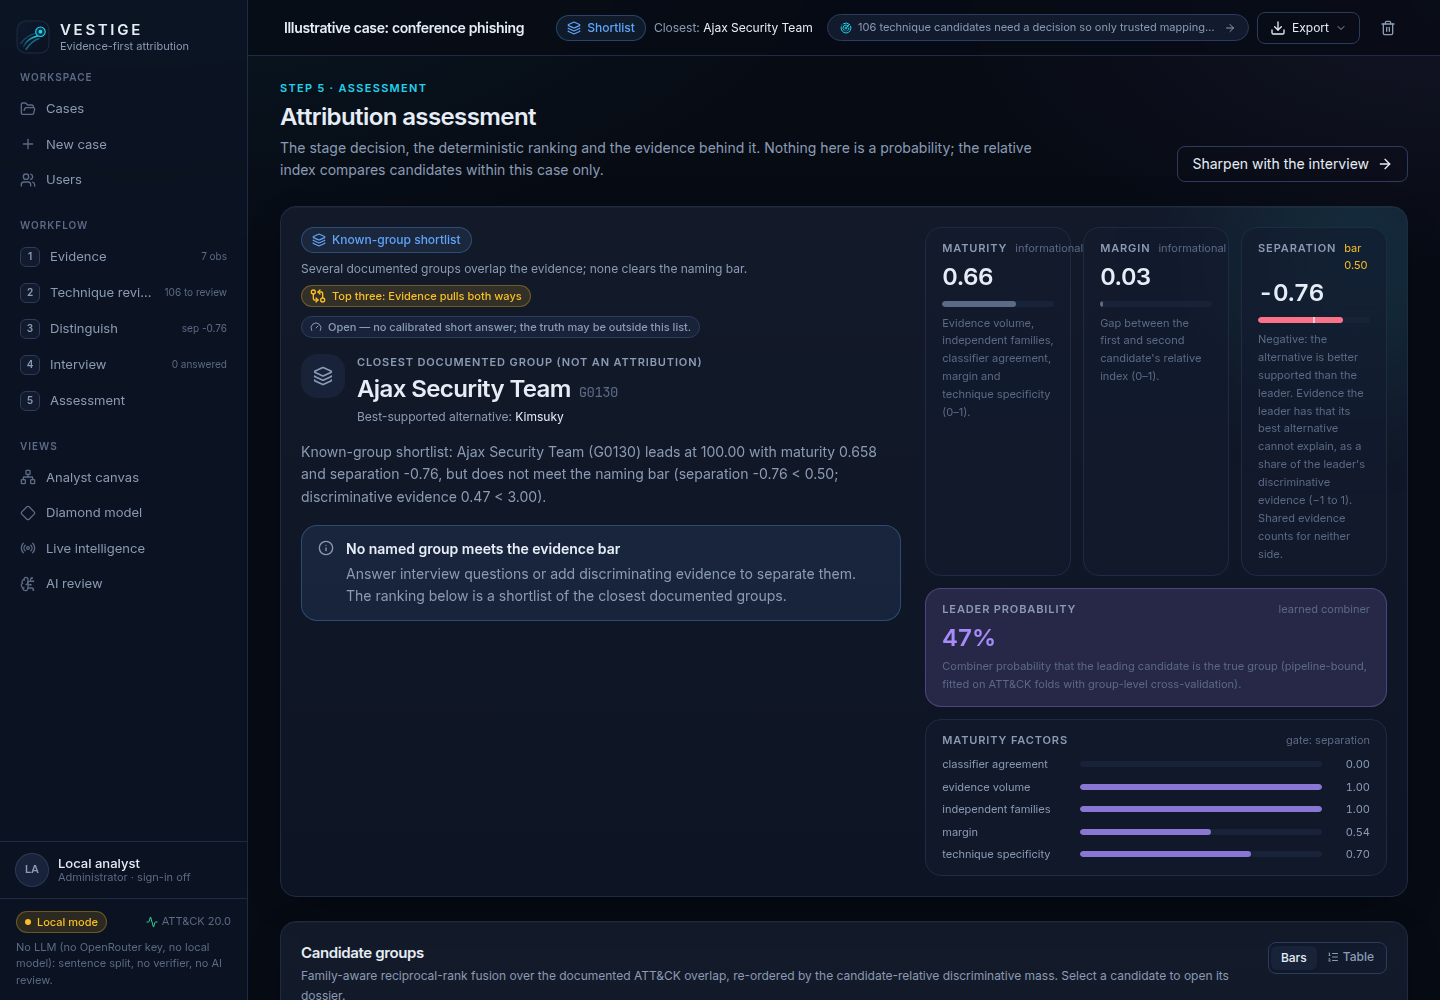
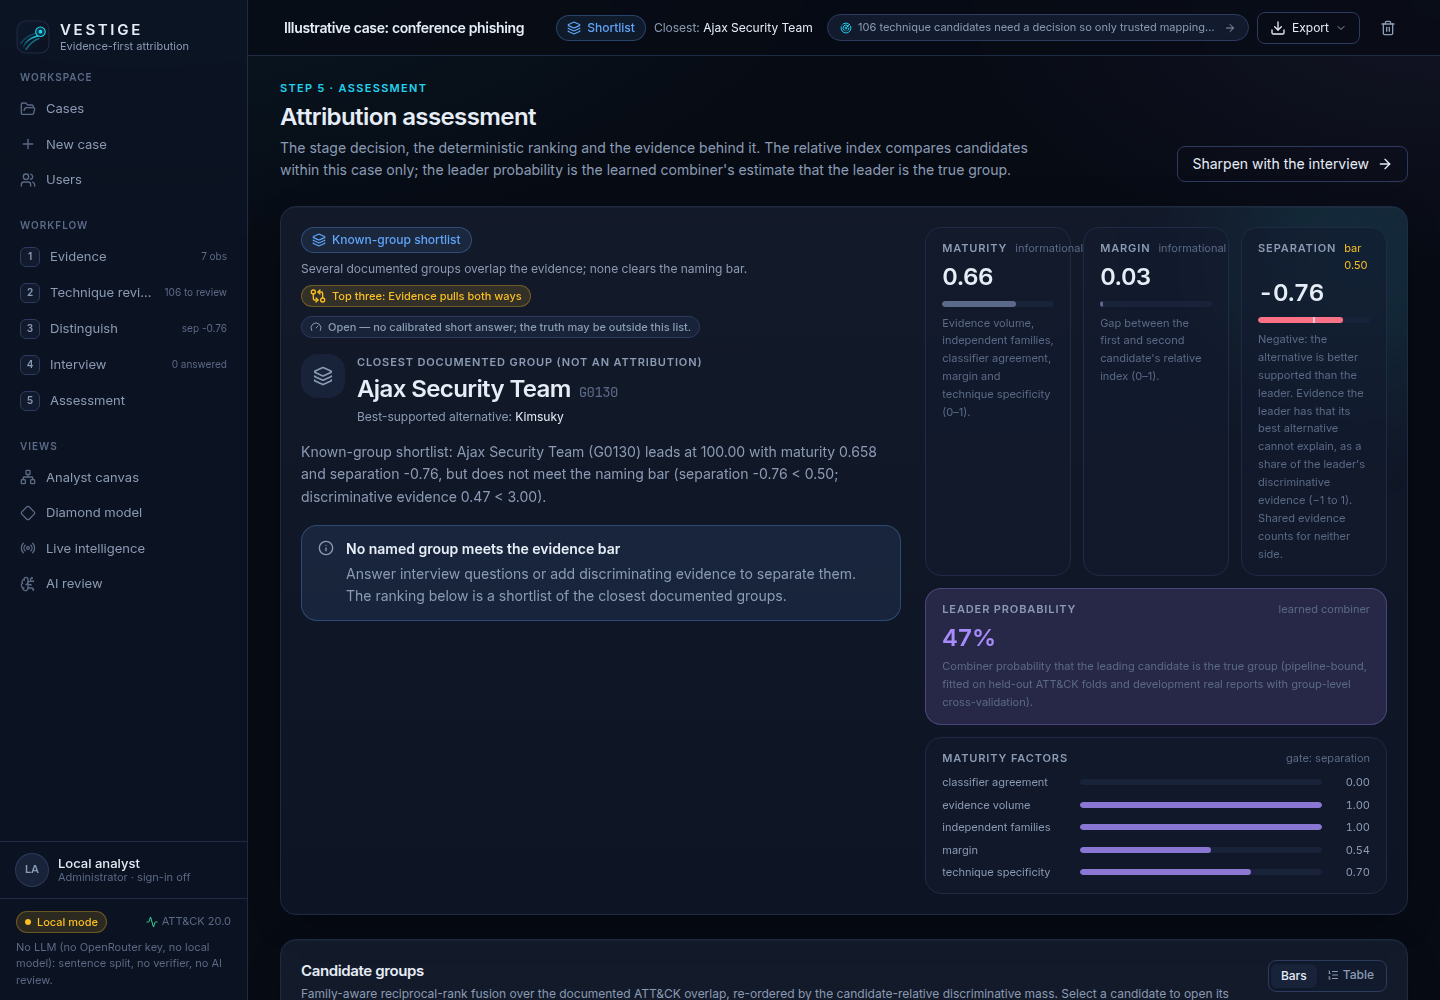
Web: honest probability wording, current combiner description, technique table fits
- Assessment lead no longer says "Nothing here is a probability" next to the leader probability;
  it says the relative index compares candidates within the case and the leader probability is
  the combiner's estimate.
- The combiner notes (assessment card, Top three badge) say it is fitted on held-out ATT&CK folds
  and development real reports, as the default combiner is since 2026-10-27.
- Technique review: the replacement picker and rationale move under the decision buttons and the
  evidence column wraps between items, so the table fits at 1440 px without sideways scrolling.

README screenshots refreshed.

diff --git a/web/src/pages/Techniques.tsx b/web/src/pages/Techniques.tsx
@@ -1,5 +1,5 @@
 import { ArrowRight, Check, HelpCircle, Search, X } from 'lucide-react'
-import { useMemo, useState } from 'react'
+import { Fragment, useMemo, useState } from 'react'
 import { useNavigate } from 'react-router-dom'
 
 import { api } from '../api/client'
@@ -202,7 +202,6 @@ function TechniquesView({ caseId, data }: { caseId: string; data: CasePayload })
                     <th className="min-w-[150px]">Status</th>
                     <th>Evidence</th>
                     <th>Decision</th>
-                    <th className="w-[280px]">Replacement / rationale</th>
                   </tr>
                 </thead>
                 <tbody>
@@ -265,8 +264,15 @@ function TechniquesView({ caseId, data }: { caseId: string; data: CasePayload })
                             </div>
                           ) : null}
                         </td>
-                        <td className="whitespace-nowrap text-xs text-muted">
-                          {evidenceSummary(c).join(' · ') || '–'}
+                        <td className="min-w-[180px] max-w-[300px] text-xs text-muted">
+                          {evidenceSummary(c).length
+                            ? evidenceSummary(c).map((item, i) => (
+                                <Fragment key={i}>
+                                  {i ? ' · ' : ''}
+                                  <span className="whitespace-nowrap">{item}</span>
+                                </Fragment>
+                              ))
+                            : '–'}
                         </td>
                         <td>
                           <Segmented<Action>
@@ -279,8 +285,6 @@ function TechniquesView({ caseId, data }: { caseId: string; data: CasePayload })
                               { value: 'replace', label: 'Replace' },
                             ]}
                           />
-                        </td>
-                        <td>
                           {draft.action === 'replace' ? (
                             <TechniquePicker
                               value={draft.replacement}
@@ -292,7 +296,7 @@ function TechniquesView({ caseId, data }: { caseId: string; data: CasePayload })
                               value={draft.rationale}
                               onChange={(e) => setDraft(c.key, { rationale: e.target.value })}
                               placeholder="Rationale (optional)"
-                              className="mt-1 h-8 text-xs"
+                              className="mt-1 h-8 max-w-[300px] text-xs"
                             />
                           ) : null}
                         </td>

diff --git a/web/src/pages/Assessment.tsx b/web/src/pages/Assessment.tsx
@@ -36,7 +36,7 @@ function AssessmentView({ caseId, data }: { caseId: string; data: CasePayload })
       <PageHeader
         step="Step 5 · Assessment"
         title="Attribution assessment"
-        lead="The stage decision, the deterministic ranking and the evidence behind it. Nothing here is a probability; the relative index compares candidates within this case only."
+        lead="The stage decision, the deterministic ranking and the evidence behind it. The relative index compares candidates within this case only; the leader probability is the learned combiner's estimate that the leader is the true group."
         action={
           !data.interview.answered && !data.interview.complete ? (
             <Button variant="outline" onClick={() => navigate(`/cases/${caseId}/interview`)}>

diff --git a/web/src/components/TopThree.tsx b/web/src/components/TopThree.tsx
@@ -198,7 +198,7 @@ function CandidateCard({ candidate, view, max }: { candidate: Top3Candidate; vie
 
       <div className="mt-3 flex flex-wrap gap-1.5 text-[11px]">
         {candidate.combiner_probability !== null ? (
-          <Tip content={view.combiner_note ?? 'Learned combiner probability (fitted on ATT&CK folds).'}>
+          <Tip content={view.combiner_note ?? 'Learned combiner probability (fitted on held-out ATT&CK folds and development real reports).'}>
             <span>
               <Badge>combiner p {fmt(candidate.combiner_probability, 2)}</Badge>
             </span>

diff --git a/apt_classifier/attribution.py b/apt_classifier/attribution.py
@@ -609,7 +609,8 @@ def assess_attribution(
         calibrated_probability = float(leader_probability)
         calibration_note = (
             "Combiner probability that the leading candidate is the true group "
-            "(pipeline-bound, fitted on ATT&CK folds with group-level cross-validation)."
+            "(pipeline-bound, fitted on held-out ATT&CK folds and development real reports with "
+            "group-level cross-validation)."
         )
     elif calibration_artifact is not None:
         valid, note = _validate_calibration_artifact(calibration_artifact, kb, fusion)
@@ -852,7 +853,8 @@ def _combiner_calibration(combiner: Any) -> dict[str, Any]:
         "calibrated_probability": float(combiner["leader_probability"]),
         "calibration_note": (
             "Combiner probability that the leading candidate is the true group "
-            "(pipeline-bound, fitted on ATT&CK folds with group-level cross-validation)."
+            "(pipeline-bound, fitted on held-out ATT&CK folds and development real reports with "
+            "group-level cross-validation)."
         ),
     }
 

diff --git a/apt_classifier/top3_view.py b/apt_classifier/top3_view.py
@@ -354,7 +354,8 @@ def build_top3_view(
             else None
         ),
         "combiner_note": (
-            "Learned combiner probability (fitted on ATT&CK folds): how often a leader with these "
+            "Learned combiner probability (fitted on held-out ATT&CK folds and development real "
+            "reports): how often a leader with these "
             "features was right there. Not a probability that the true group is one of these "
             "three."
         ),
